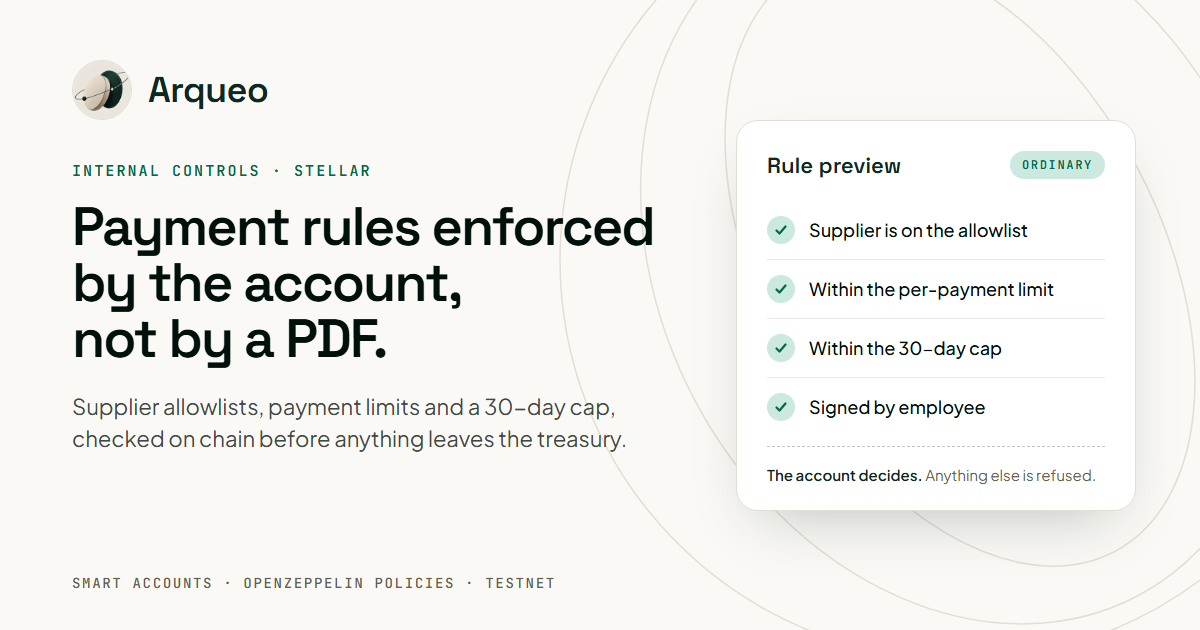
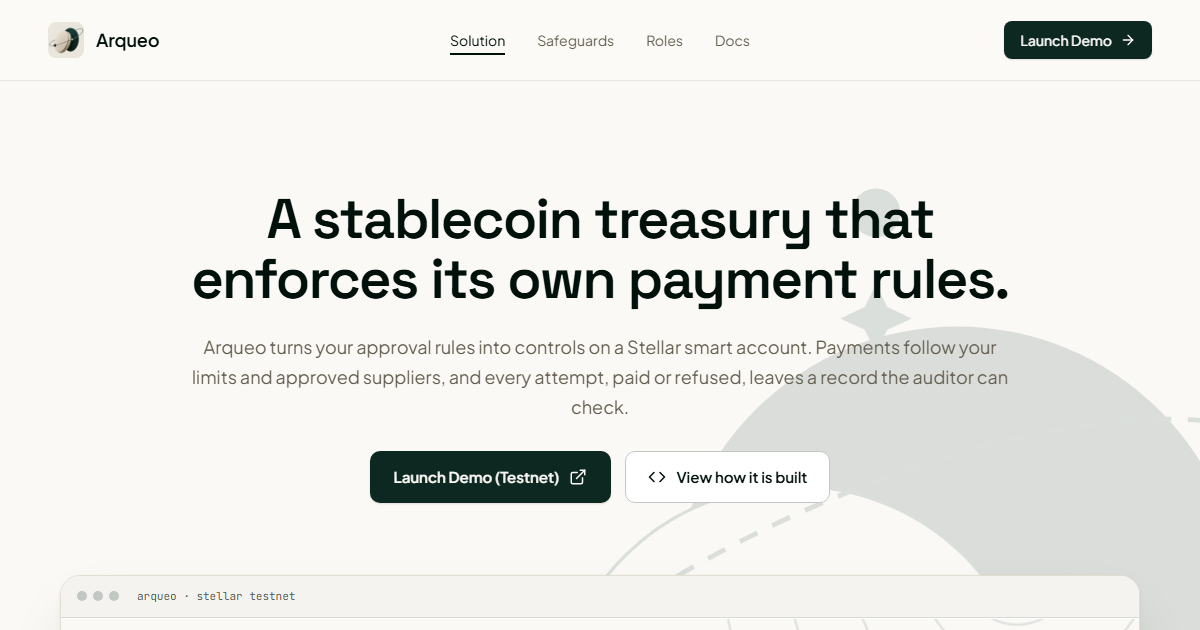
feat: use the landing's first screen as the link preview
The share image is now a 1200x630 capture of the landing's first screen, with
the Arqueo logo in the header. The alt text describes it. The logo is also
declared as an Organization in JSON-LD, with its absolute URL.

diff --git a/app/index.html b/app/index.html
@@ -12,6 +12,9 @@
 			content="Internal controls for stablecoin treasuries on Stellar: payment rules are enforced by the account itself."
 		/>
 		<link rel="canonical" href="https://arqueo-arqueo2.vercel.app/" />
+		<script type="application/ld+json">
+			{"@context":"https://schema.org","@type":"Organization","name":"Arqueo","url":"https://arqueo-arqueo2.vercel.app/","logo":"https://arqueo-arqueo2.vercel.app/arqueo-wordmark.png"}
+		</script>
 
 		<!-- Link previews (Slack, WhatsApp, LinkedIn, X...). The image URL must be absolute. -->
 		<meta property="og:type" content="website" />
@@ -31,7 +34,7 @@
 		<meta property="og:image:height" content="630" />
 		<meta
 			property="og:image:alt"
-			content="Arqueo: payment rules enforced by the account. A rule preview shows four checks passing: supplier on the allowlist, within the per-payment limit, within the 30-day cap, signed by employee."
+			content="Arqueo landing page: 'A stablecoin treasury that enforces its own payment rules', with Launch Demo buttons and a preview of the testnet treasury."
 		/>
 		<meta name="twitter:card" content="summary_large_image" />
 		<meta
@@ -45,7 +48,7 @@
 		<meta name="twitter:image" content="https://arqueo-arqueo2.vercel.app/og-image.png" />
 		<meta
 			name="twitter:image:alt"
-			content="Arqueo: payment rules enforced by the account. A rule preview shows four checks passing."
+			content="Arqueo landing page: 'A stablecoin treasury that enforces its own payment rules', with Launch Demo buttons and a preview of the testnet treasury."
 		/>
 		<link rel="preconnect" href="https://fonts.googleapis.com" />
 		<link rel="preconnect" href="https://fonts.gstatic.com" crossorigin />
